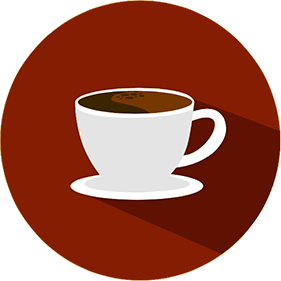
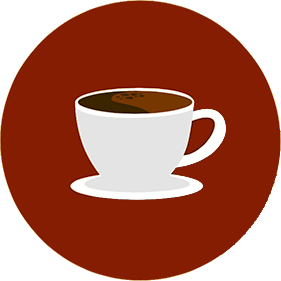
coffee cup now spinning out of control

Changed region(s): [[0.3416, 0.3416, 1.0, 0.911]]

diff --git a/index.html b/index.html
@@ -33,10 +33,10 @@
       <img class="intro-icon" src="{{ site.baseurl }}/style/img/icon.png">
 
     <h1 class="site-title"><a href="{{ site.baseurl }}">
-        <span class="wow bounceInUp eddie-antonio">Eddie Antonio</span>
-        <span class="santos">Santos</span></a></h1>
-    <h2>Bad-ass computer programmer</h2>
-    <nav class="social-media inline-nav"><ul>
+        <span class="eddie-antonio">Eddie Antonio</span>
+        <span class="wow bounceInUp santos">Santos</span></a></h1>
+    <h2 class="wow slideInLeft" data-wow-duration="1s" data-wow-delay="1s">Bad-ass computer programmer</h2>
+    <nav class="social-media inline-nav wow fadeInUp" data-wow-duration="1s" data-wow-delay="2s"><ul>
         <li> <a class="github" href='{{ site.me.resume }}'> Résumé </a> </li>
         <li> <a class="blog" href='{{ site.me.blog }}'> Blog </a> </li>
         <li> <a class="resume" href='{{ site.me.github }}'> GitHub </a> </li>

diff --git a/style/m.css b/style/m.css
@@ -18,14 +18,23 @@ body.home {
 a:link,
 a:visited,
 a:active {
-    color: inherit;
     text-decoration: none;
     font-weight: lighter;
+    color: #6D6561;
+    -o-transition: .5s;
+    -ms-transition: .5s;
+    -moz-transition: .5s;
+    -webkit-transition: .5s;
+    transition: .5s;
 }
 
 a:hover,
 .eddie-antonio {
     color: #583404;
+}
+
+a:hover {
+    color: #B7A994;
 }
 
 .inline-nav > * > li {
@@ -35,6 +44,18 @@ a:hover,
 
 img.intro-icon {
     width: 20%;
+     transition: all 0.3s ease-in-out 0s;
+}
+
+@-webkit-keyframes spin {
+    0%   {-webkit-transform: rotate(0deg)}
+    100% {-webkit-transform: rotate(360deg)}
+}
+
+img.intro-icon:hover{
+    cursor: default;
+    -webkit-animation: spin 1s infinite linear;
+
 }
 
 .hero-unit {
